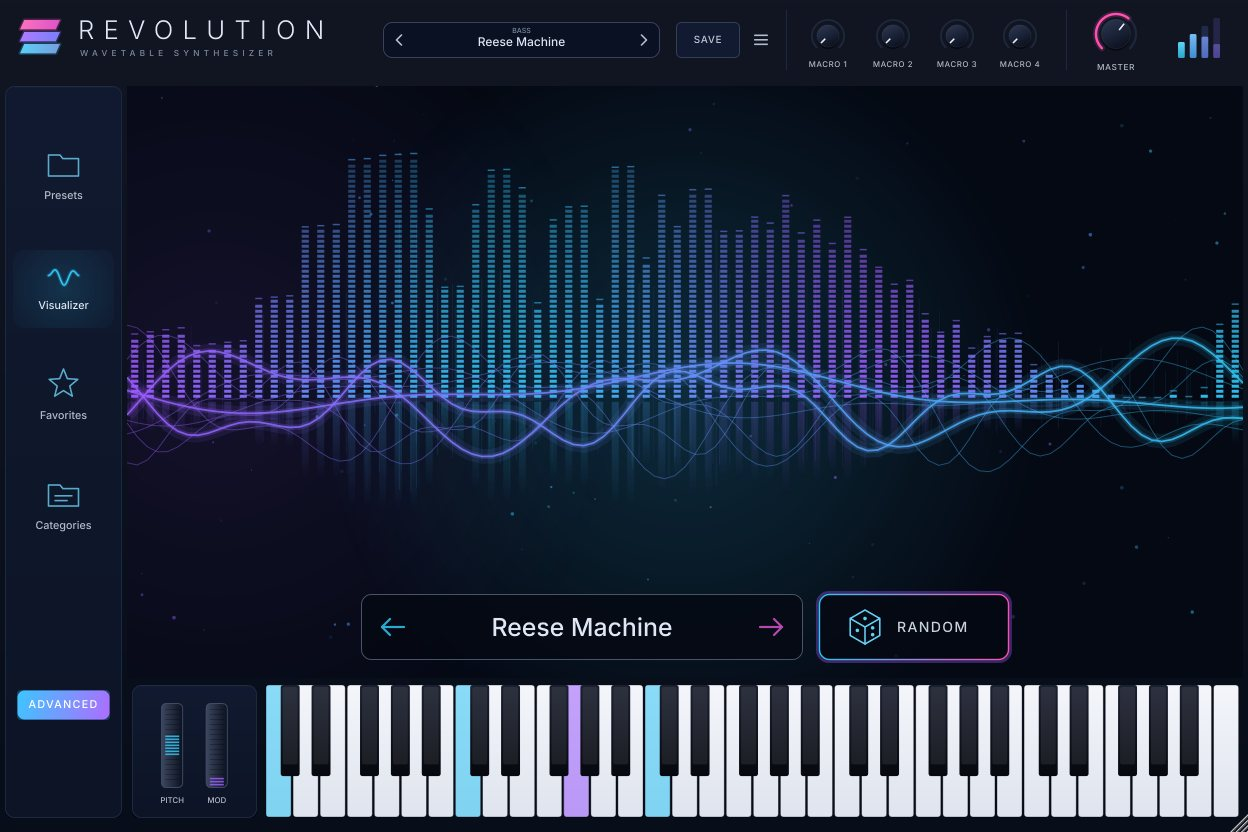
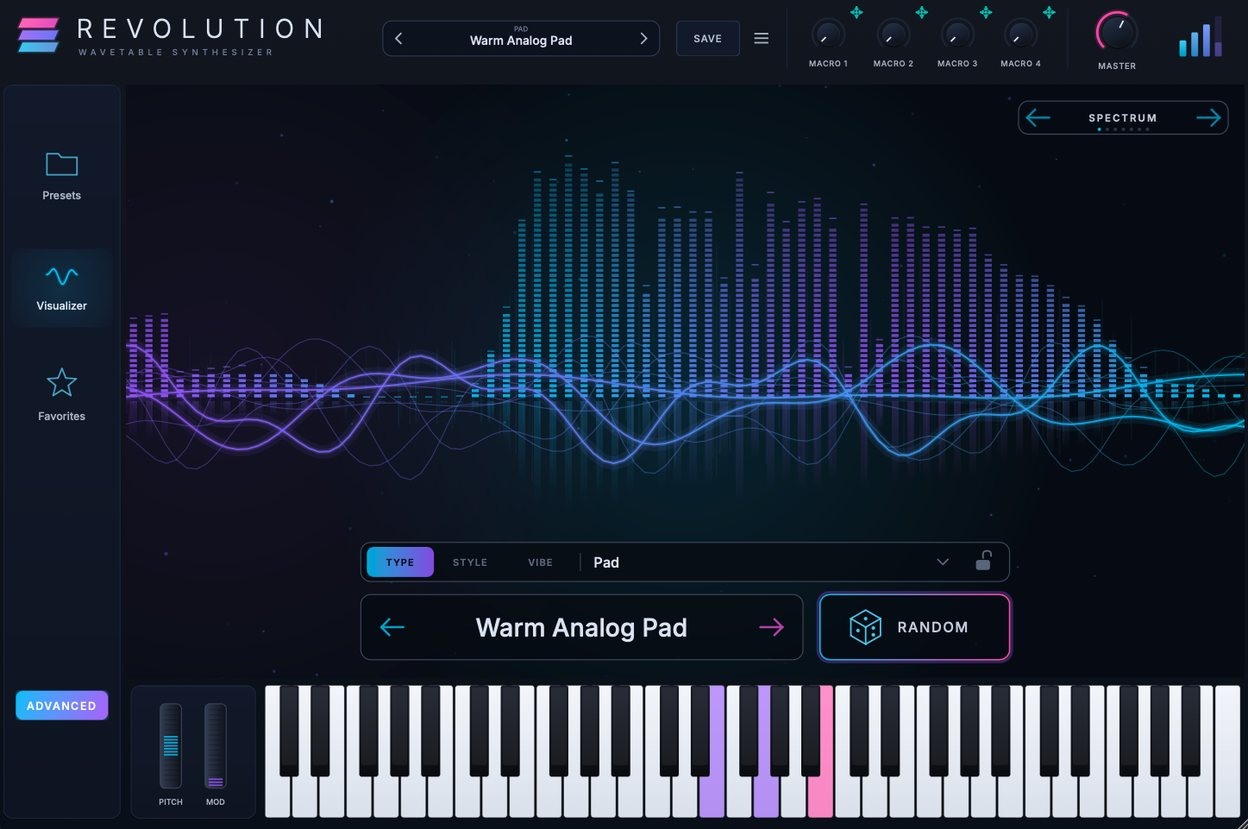
Revolution page: SHATTER, Breed, Pump, Time Machine, presets and The Touch scenes
New 1.4 screenshots. Sections for Normal/Advanced, preset RANDOM with the
category lock and Type / Style / Vibe browsing, the seven visualizers, a
The Touch special with Legendary, Duo, City Lights and Awakening, SHATTER,
Breed, Pump and the Time Machine. Home hero uses the new Duo and City Lights.

Claude-Session: https://claude.ai/code/session_01WwjQvk822aiDCxj48dmMkg

diff --git a/revolution.html b/revolution.html
@@ -12,9 +12,9 @@
 <link rel="stylesheet" href="https://fonts.googleapis.com/css2?family=Unbounded:wght@500;600;700&family=Inter:wght@400;500;600;700&family=JetBrains+Mono:wght@500;600&display=swap">
 <link rel="stylesheet" href="css/site.css?v=1">
 <title>Revolution · Coming soon · Rems Plugins</title>
-<meta name="description" content="Revolution, a new wavetable synth with 3,000 presets, eight skins, animated scenes, a custom LFO editor and Vital / Serum 2 import. Coming soon for Mac, Windows and Linux, with a 14-day free trial.">
+<meta name="description" content="Revolution, a new wavetable synth with 3,000 presets, eight skins, visualizers and The Touch scenes, SHATTER, Breed, Pump and the Time Machine. Coming soon for Mac, Windows and Linux, with a 14-day free trial.">
 <meta property="og:title" content="Revolution · coming soon">
-<meta property="og:description" content="A new wavetable synth with 3,000 presets, eight skins, animated scenes and a custom LFO editor. Try it free for 14 days.">
+<meta property="og:description" content="A new wavetable synth with 3,000 presets, eight skins, SHATTER, Breed and the Time Machine. Try it free for 14 days.">
 <meta property="og:image" content="https://remsplugins.github.io/img/revolution/revolution-og.jpg">
 <meta property="og:url" content="https://remsplugins.github.io/revolution.html">
 <meta name="twitter:card" content="summary_large_image">
@@ -43,6 +43,26 @@
 .chips span{font:500 12px var(--mono);padding:5px 9px;border-radius:6px;border:1px solid var(--line-2);color:var(--ink-2)}
 .filt{background:#e9eef4;border-radius:24px;padding:40px;display:grid;place-items:center}
 .filt img{width:100%;max-width:300px;height:auto;border-radius:12px;box-shadow:0 20px 40px rgba(21,23,28,.14)}
+.touch{background:#0b0b0d;color:#f3ead8;padding:96px 0;margin-top:96px}
+.touch .h2{color:#fff}
+.touch .lead{color:#c9bfae}
+.pill.gold{background:#e9b54a;color:#1a1306}
+.touch .scenes figure{background:#16161a;border-color:#2a2620}
+.touch .scenes figcaption b{color:#f1c76b}
+.touch .scenes figcaption span{color:#c9bfae}
+.touch-wide{margin:20px 0 0;border-radius:20px;overflow:hidden;border:1px solid #2a2620;background:#16161a}
+.touch-wide figcaption{padding:16px 22px;color:#c9bfae}
+.minis{display:grid;grid-template-columns:repeat(auto-fit,minmax(150px,1fr));gap:14px;margin-top:28px}
+.minis figure{margin:0}
+.minis img{border-radius:12px;box-shadow:0 0 0 1px rgba(21,23,28,.08)}
+.minis figcaption{font:500 12px var(--mono);color:var(--muted);margin-top:8px}
+.detail{background:#0b0b0d;border-radius:16px;padding:14px;display:grid;place-items:center}
+.detail img{border-radius:8px}
+.fx8{display:grid;grid-template-columns:repeat(auto-fit,minmax(min(250px,100%),1fr));gap:10px;margin-top:20px}
+.fx8 div{background:var(--bg);border:1px solid var(--line);border-radius:14px;padding:14px 16px;display:flex;flex-direction:column;gap:4px}
+.fx8 b{font:600 13px var(--mono);letter-spacing:.1em;text-transform:uppercase}
+.fx8 span{color:var(--text);font-size:14px}
+.tm{display:grid;grid-template-columns:repeat(auto-fit,minmax(min(380px,100%),1fr));gap:32px;align-items:center;background:#fff;border:1px solid var(--line);border-radius:24px;padding:clamp(24px,4vw,48px)}
 .notify{max-width:760px;margin:0 auto;text-align:center;align-items:center}
 .notify form{width:100%;text-align:left}
 .halcyon{max-width:760px;margin-left:auto;margin-right:auto;display:flex;gap:16px 24px;align-items:center;flex-wrap:wrap;justify-content:space-between;padding:22px 24px;border-radius:18px;border:1px dashed var(--line-3);background:#fff}
@@ -75,7 +95,7 @@
 
 <div class="subnav"><div class="wrap">
   <span class="name">REVOLUTION</span>
-  <a href="#watch">Teaser</a><a href="#scenes">Scenes</a><a href="#skins">Skins</a><a href="#modes">Normal &amp; Advanced</a><a href="#lfo">Custom LFO</a><a href="#filters">Filters</a><a href="#features">Features</a><a href="#listen">Listen</a>
+  <a href="#modes">Normal &amp; Advanced</a><a href="#presets">Presets</a><a href="#visualizers">Visualizers</a><a href="#the-touch">The Touch</a><a href="#skins">Skins</a><a href="#shatter">SHATTER</a><a href="#breed">Breed</a><a href="#pump">Pump</a><a href="#time-machine">Time Machine</a><a href="#listen">Listen</a>
   <a class="btn btn-ink btn-sm" href="#notify">Notify me</a>
 </div></div>
 
@@ -83,9 +103,9 @@
 <section class="wrap" style="padding-top:72px">
   <div class="stats">
     <div><b>3,000</b><span>factory presets</span></div>
-    <div><b>31</b><span>categories</span></div>
     <div><b>8</b><span>skins</span></div>
-    <div><b>16</b><span>unison voices per oscillator</span></div>
+    <div><b>11</b><span>visualizers and scenes</span></div>
+    <div><b>8</b><span>SHATTER effects</span></div>
   </div>
 </section>
 
@@ -95,15 +115,103 @@
   <div class="video"><video controls playsinline preload="none" poster="video/revolution-teaser.jpg" width="1280" height="720"><source src="video/revolution-teaser.mp4" type="video/mp4">Your browser can't play this video. <a href="video/revolution-teaser.mp4">Download it</a>.</video></div>
 </section>
 
-<!-- scenes -->
-<section class="wrap sec" id="scenes">
-  <div class="sec-head"><div><p class="kicker">New · Normal mode scenes</p><h2>A show that plays along</h2></div></div>
-  <p class="lead" style="margin:-12px 0 32px;max-width:48em">In Normal mode the panels step aside and a scene reacts to every note you play. The Touch skin brings three hand-made stages, and every other skin gets seven visualizers, from Spectrum to Aurora.</p>
-  <div class="scenes">
-    <figure><img src="img/revolution/scene-legendary.jpg" alt="Legendary scene: LED tubes and triangle walls around a pyramid" width="1248" height="832" loading="lazy"><figcaption><b>Legendary</b><span>A stage of LED tubes around a pyramid. New colours light up on every fifth note and on each new chord.</span></figcaption></figure>
-    <figure><img src="img/revolution/scene-duo.jpg" alt="Duo scene: a white T-shirt shows the chord being played, Cmaj7#11" width="1248" height="832" loading="lazy"><figcaption><b>Duo</b><span>A white T-shirt in the dark. Cartoon figures play on it at rest, and what you hold is printed on the shirt.</span></figcaption></figure>
-    <figure><img src="img/revolution/scene-city-lights.jpg" alt="City Lights scene: a figure in a red jacket facing a synthwave sunset" width="1248" height="832" loading="lazy"><figcaption><b>City Lights</b><span>A synthwave sunset over the grid, pulsing with your track.</span></figcaption></figure>
-    <figure><img src="img/revolution/scene-aurora.jpg" alt="Aurora visualizer: northern lights over hills" width="1248" height="832" loading="lazy"><figcaption><b>Aurora</b><span>Northern lights that ripple with the sound. Also Spectrum, Waves, Halo, Terrain, Pulse and Space Tour.</span></figcaption></figure>
+<!-- normal & advanced -->
+<section class="wrap sec" id="modes">
+  <div class="sec-head">
+    <div><p class="kicker">Normal &amp; Advanced</p><h2>Two ways to play, one click apart</h2></div>
+    <div class="seg" role="tablist" aria-label="Interface mode" data-switch="mode-shot">
+      <button class="choice" type="button" role="tab" aria-selected="true" aria-controls="mode-normal" data-show="mode-normal" data-src="img/revolution/normal-neon-blue.jpg" data-alt="Revolution in Normal mode, Spectrum visualizer">Normal</button>
+      <button class="choice" type="button" role="tab" aria-selected="false" aria-controls="mode-adv" data-show="mode-adv" data-src="img/revolution/page-synth.jpg" data-alt="Revolution in Advanced mode, Synth page">Advanced</button>
+    </div>
+  </div>
+  <div class="split r">
+    <img class="ui" id="mode-shot" src="img/revolution/normal-neon-blue.jpg" alt="Revolution in Normal mode, Spectrum visualizer" width="1248" height="829" loading="lazy">
+    <div>
+      <div id="mode-normal" role="tabpanel" style="display:flex;flex-direction:column;gap:18px">
+        <h3 style="font-size:26px">Normal: pick a sound and play</h3>
+        <p style="color:var(--text);font-size:17px;line-height:1.65">The panels step aside. A visualizer moves with your track, a big preset selector sits under your hands, and RANDOM deals a new sound in one click. Perfect when you want to write, not program.</p>
+        <ul class="checks">
+          <li>Browse by Type, Style or Vibe without opening a menu</li>
+          <li>Lock a category and the arrows and RANDOM stay in it</li>
+          <li>Seven visualizers, plus four scenes with The Touch skin</li>
+          <li>Favorites, the 4 macros and the master always within reach</li>
+        </ul>
+      </div>
+      <div id="mode-adv" role="tabpanel" hidden style="flex-direction:column;gap:18px">
+        <h3 style="font-size:26px;margin-bottom:18px">Advanced: the whole synth, page by page</h3>
+        <p style="color:var(--text);font-size:17px;line-height:1.65;margin-bottom:18px">Click ADVANCED and the full engine slides open. Six pages sit along the top: Synth, Mod Matrix, Effects, Arp, SHATTER and Breed. The Time Machine stays in view on every one of them.</p>
+        <ul class="checks">
+          <li>3 oscillators, sub and noise, 2 filters</li>
+          <li>4 envelopes and 4 LFOs, with live modulation shown on every knob</li>
+          <li>Drag a macro, envelope or LFO onto any knob to modulate it</li>
+          <li>Click NORMAL to fold it all away again</li>
+        </ul>
+      </div>
+    </div>
+  </div>
+</section>
+
+<!-- presets: random, lock, type / style / vibe -->
+<section class="white sec" id="presets" style="margin-top:96px;padding-bottom:96px">
+  <div class="wrap">
+    <p class="kicker">3,000 presets</p>
+    <h2 class="h2" style="margin-bottom:12px">Find the sound by what it is, where it goes, or how it feels</h2>
+    <p class="lead" style="margin-bottom:36px;max-width:48em">Every preset is filed three ways. Pick a tab, pick a category, then flip through with the arrows or let RANDOM choose for you.</p>
+    <div class="grid g3" style="margin-bottom:28px">
+      <div class="box"><b>Type</b><p>What the sound is: Bass, Lead, Pad, Pluck, Keys, Acoustic, Chord, Arp, Seq, Bell, Brass, Strings, Vox, Atmosphere, FX, Drums, Granular, Spectral…</p></div>
+      <div class="box"><b>Style</b><p>The music it was made for: House, Techno, Trance, EDM, Synthwave, Disco &amp; Funk, Hip-Hop &amp; Trap, Drum &amp; Bass, Dubstep, Ambient, Cinematic, Pop, Lo-Fi, Acid, Electro.</p></div>
+      <div class="box"><b>Vibe</b><p>The mood or the record it recalls: Acid Squelch, Big Room Drop, Cold Wave, Cosmic Laser, Detroit Machine, Disco Strut, Future Noir, Night Drive and many more.</p></div>
+    </div>
+    <div class="split r" style="align-items:start">
+      <div style="display:flex;flex-direction:column;gap:14px">
+        <img class="ui" id="browse-shot" src="img/revolution/browser-type.jpg" alt="Preset browser sorted by Type, Pad selected" width="1248" height="658" loading="lazy">
+        <div class="choices" role="tablist" aria-label="Preset browser tabs" data-switch="browse-shot" data-caption="browse-cap">
+          <button class="choice" type="button" role="tab" aria-selected="true" data-src="img/revolution/browser-type.jpg" data-alt="Preset browser sorted by Type, Pad selected" data-cap="Type › Pad: every pad in the library, with its tags.">Type</button>
+          <button class="choice" type="button" role="tab" aria-selected="false" data-src="img/revolution/browser-style.jpg" data-alt="Preset browser sorted by Style, Ambient selected" data-cap="Style › Ambient: pads, bells, textures and keys made for ambient tracks.">Style</button>
+          <button class="choice" type="button" role="tab" aria-selected="false" data-src="img/revolution/browser-vibe.jpg" data-alt="Preset browser sorted by Vibe, Cosmic Laser selected" data-cap="Vibe › Cosmic Laser: the sounds that share that feeling, whatever their type.">Vibe</button>
+        </div>
+        <p class="meta" id="browse-cap" style="font-family:var(--body);font-size:14px">Type › Pad: every pad in the library, with its tags.</p>
+      </div>
+      <div style="display:flex;flex-direction:column;gap:22px">
+        <div class="detail"><img src="img/revolution/detail-browse.jpg" alt="Normal mode preset bar: Type, Style and Vibe tabs, the lock, the preset arrows and the RANDOM button" width="780" height="155" loading="lazy"></div>
+        <div><h3 style="font-size:22px;margin-bottom:8px">RANDOM, one click, a new sound</h3><p style="color:var(--text);line-height:1.65">Stuck? Press RANDOM and Revolution deals a preset. Don't like it, press again. It's the fastest way to stumble on the sound your track was missing.</p></div>
+        <div><h3 style="font-size:22px;margin-bottom:8px">Lock it to a category</h3><p style="color:var(--text);line-height:1.65">Click the padlock and RANDOM and the arrows stay inside the category you chose. Lock Pad and you only get pads, lock Synthwave and every throw of the dice stays in the 80s.</p></div>
+        <div><h3 style="font-size:22px;margin-bottom:8px">A browser built for speed</h3><p style="color:var(--text);line-height:1.65">Search by name or tag, filter with tags like Mono, Unison, Slow Attack or Wide, star your favorites, and audition with the arrow keys while you scroll.</p></div>
+      </div>
+    </div>
+  </div>
+</section>
+
+<!-- visualizers -->
+<section class="wrap sec" id="visualizers">
+  <div class="sec-head"><div><p class="kicker">Visualizers</p><h2>Seven ways to watch your sound</h2></div></div>
+  <p class="lead" style="margin:-12px 0 32px;max-width:48em">In Normal mode the screen is a visualizer that listens to what you play. Step through them with the arrows in the top corner. Each one takes the colours of your skin.</p>
+  <img class="ui" id="viz-shot" src="img/revolution/viz-spectrum.jpg" alt="Spectrum visualizer" width="1248" height="829" loading="lazy">
+  <div class="choices" role="tablist" aria-label="Visualizers" data-switch="viz-shot" data-caption="viz-cap" style="margin-top:16px">
+    <button class="choice" type="button" role="tab" aria-selected="true" data-src="img/revolution/viz-spectrum.jpg" data-alt="Spectrum visualizer" data-cap="Spectrum: the frequency bars of your sound, with the waveform running through them.">Spectrum</button>
+    <button class="choice" type="button" role="tab" aria-selected="false" data-src="img/revolution/viz-waves.jpg" data-alt="Waves visualizer" data-cap="Waves: layers of waveforms that swell and shimmer with each note.">Waves</button>
+    <button class="choice" type="button" role="tab" aria-selected="false" data-src="img/revolution/viz-halo.jpg" data-alt="Halo visualizer" data-cap="Halo: a ring of light that bursts outwards with the spectrum.">Halo</button>
+    <button class="choice" type="button" role="tab" aria-selected="false" data-src="img/revolution/viz-terrain.jpg" data-alt="Terrain visualizer" data-cap="Terrain: your sound drawn as a landscape of light.">Terrain</button>
+    <button class="choice" type="button" role="tab" aria-selected="false" data-src="img/revolution/viz-pulse.jpg" data-alt="Pulse visualizer" data-cap="Pulse: a beating core in an orbit that breathes with the level.">Pulse</button>
+    <button class="choice" type="button" role="tab" aria-selected="false" data-src="img/revolution/viz-space-tour.jpg" data-alt="Space Tour visualizer" data-cap="Space Tour: a flight through the stars, in time with your music.">Space Tour</button>
+    <button class="choice" type="button" role="tab" aria-selected="false" data-src="img/revolution/viz-aurora.jpg" data-alt="Aurora visualizer" data-cap="Aurora: northern lights that ripple with the sound.">Aurora</button>
+  </div>
+  <p class="meta" id="viz-cap" style="font-family:var(--body);font-size:14px;margin-top:12px">Spectrum: the frequency bars of your sound, with the waveform running through them.</p>
+</section>
+
+<!-- The Touch -->
+<section class="touch" id="the-touch">
+  <div class="wrap">
+    <div class="choices"><span class="pill gold">The Touch special</span><span class="meta" style="color:#b8a27a;letter-spacing:.12em">SKIN + SCENES</span></div>
+    <h2 class="h2" style="margin:16px 0 12px">The Touch: four stages instead of a visualizer</h2>
+    <p class="lead" style="margin-bottom:40px;max-width:48em">Choose The Touch skin and Revolution turns black and gold. In Normal mode the visualizers make way for four hand-made scenes that play along with you.</p>
+    <div class="scenes">
+      <figure><img src="img/revolution/scene-legendary.jpg" alt="Legendary scene: LED tubes and triangle walls around a pyramid" width="1248" height="832" loading="lazy"><figcaption><b>Legendary</b><span>A stage of LED tubes around a pyramid. New colours light up on every fifth note and on each new chord.</span></figcaption></figure>
+      <figure><img src="img/revolution/touch-duo.jpg" alt="Duo scene: a white T-shirt with a skull, light rays behind it" width="1248" height="829" loading="lazy"><figcaption><b>Duo</b><span>A white T-shirt in the dark. Figures play on it at rest, and what you hold is printed on the shirt.</span></figcaption></figure>
+      <figure><img src="img/revolution/touch-city-lights.jpg" alt="City Lights scene: a red convertible drives towards a synthwave sunset" width="1248" height="829" loading="lazy"><figcaption><b>City Lights</b><span>A red convertible heads into a synthwave sunset over the grid, and speeds up as your music gets louder.</span></figcaption></figure>
+      <figure><img src="img/revolution/touch-awakening.jpg" alt="Awakening scene: a glowing glass figure waving" width="1248" height="829" loading="lazy"><figcaption><b>Awakening</b><span>A figure of glass and light that comes to life as you play.</span></figcaption></figure>
+    </div>
+    <figure class="touch-wide"><img src="img/revolution/touch-synth.jpg" alt="Revolution in Advanced mode with The Touch skin, Synth page" width="1248" height="829" loading="lazy"><figcaption>And in Advanced mode, every page gets the same black and gold finish.</figcaption></figure>
   </div>
 </section>
 
@@ -127,41 +235,84 @@
     </div>
     <img class="ui" id="skin-shot" src="img/revolution/skin-the-touch.jpg" alt="Revolution in Advanced mode, The Touch skin" width="1248" height="832" loading="lazy">
   </div>
+  <div class="minis">
+    <figure><img src="img/revolution/normal-organic.jpg" alt="Normal mode, Organic skin" width="1248" height="829" loading="lazy"><figcaption>Organic</figcaption></figure>
+    <figure><img src="img/revolution/normal-light.jpg" alt="Normal mode, Light skin" width="1248" height="829" loading="lazy"><figcaption>Light</figcaption></figure>
+    <figure><img src="img/revolution/normal-wood-alu.jpg" alt="Normal mode, Wood &amp; Alu skin" width="1248" height="829" loading="lazy"><figcaption>Wood &amp; Alu</figcaption></figure>
+    <figure><img src="img/revolution/normal-amber.jpg" alt="Normal mode, Amber skin" width="1248" height="829" loading="lazy"><figcaption>Amber</figcaption></figure>
+  </div>
 </section>
 
-<!-- normal & advanced -->
-<section class="wrap sec" id="modes">
-  <div class="sec-head">
-    <div><p class="kicker">Normal &amp; Advanced</p><h2>Two ways to play, one click apart</h2></div>
-    <div class="seg" role="tablist" aria-label="Interface mode" data-switch="mode-shot">
-      <button class="choice" type="button" role="tab" aria-selected="true" aria-controls="mode-normal" data-show="mode-normal" data-src="img/revolution/normal-light.jpg" data-alt="Revolution in Normal mode">Normal</button>
-      <button class="choice" type="button" role="tab" aria-selected="false" aria-controls="mode-adv" data-show="mode-adv" data-src="img/revolution/skin-light.jpg" data-alt="Revolution in Advanced mode">Advanced</button>
+<!-- shatter -->
+<section class="white sec" id="shatter" style="padding-bottom:96px">
+  <div class="wrap">
+    <div class="choices"><span class="pill">New</span><p class="kicker" style="margin:0">SHATTER</p></div>
+    <h2 class="h2" style="margin:12px 0 12px">Break your sound into rhythm</h2>
+    <p class="lead" style="margin-bottom:36px;max-width:48em">SHATTER slices what you play in time with the track and throws glitch effects at it, step by step. Draw on the rings, hit DICE, and a held pad turns into a beat.</p>
+    <img class="ui" src="img/revolution/page-shatter.jpg" alt="SHATTER page: a circular step sequencer with eight coloured rings and the eight effects on the right" width="1248" height="850" loading="lazy">
+    <div class="fx8">
+      <div><b style="color:#1aa5d6">Stutter</b><span>Repeats a slice, faster and faster</span></div>
+      <div><b style="color:#e0457b">Rewind</b><span>Plays the sound backwards</span></div>
+      <div><b style="color:#8f5be8">Scramble</b><span>Swaps slices around, some reversed</span></div>
+      <div><b style="color:#e8822a">Brake</b><span>Slows down to a stop, like a tape</span></div>
+      <div><b style="color:#16a587">Smear</b><span>Freezes and stretches the sound</span></div>
+      <div><b style="color:#c99a10">Chop</b><span>Rhythmic volume cuts</span></div>
+      <div><b style="color:#b8423a">Grit</b><span>Bit and sample-rate reduction</span></div>
+      <div><b style="color:#3f6fd8">Sweep</b><span>Resonant filter sweep</span></div>
+    </div>
+    <div class="grid g3" style="margin-top:20px">
+      <div class="box"><b>One ring per effect</b><p>Draw on a ring to light steps, right-click to clear it. Up to 16 steps on a 1/16 grid, or any other division. The centre pad switches SHATTER on.</p></div>
+      <div class="box"><b>Dice, Evolve, Wipe, Hold</b><p>DICE writes a new pattern, EVOLVE changes it a little at a time, WIPE clears it, HOLD freezes it while you play. Eight pattern slots to switch between.</p></div>
+      <div class="box"><b>Five knobs to tame it</b><p>Slice, Chaos, Backwards and Mix shape the effect, Shatter Mix blends it with the dry sound.</p></div>
     </div>
   </div>
+</section>
+
+<!-- breed -->
+<section class="wrap sec" id="breed">
   <div class="split r">
-    <img class="ui" id="mode-shot" src="img/revolution/normal-light.jpg" alt="Revolution in Normal mode" width="1248" height="832" loading="lazy">
-    <div>
-      <div id="mode-normal" role="tabpanel" style="display:flex;flex-direction:column;gap:18px">
-        <h3 style="font-size:26px">Normal: pick a sound and play</h3>
-        <p style="color:var(--text);font-size:17px;line-height:1.65">The panels step aside. A scene moves with your track, a big preset selector sits under your hands, and RANDOM deals a new sound in one click. Perfect when you want to write, not program.</p>
-        <ul class="checks">
-          <li>Seven visualizers, plus three stages with The Touch skin</li>
-          <li>Browse by type, by music style or by the artist a sound recalls</li>
-          <li>Lock a category and the arrows and RANDOM stay in it</li>
-          <li>Favorites and the 4 macros always within reach</li>
-        </ul>
-      </div>
-      <div id="mode-adv" role="tabpanel" hidden style="flex-direction:column;gap:18px">
-        <h3 style="font-size:26px;margin-bottom:18px">Advanced: the whole synth on one page</h3>
-        <p style="color:var(--text);font-size:17px;line-height:1.65;margin-bottom:18px">Click ADVANCED and the full engine slides open with an animated switch. Everything is on the Synth page, nothing hides in sub-menus.</p>
-        <ul class="checks">
-          <li>3 oscillators, sub and noise, 2 filters</li>
-          <li>4 envelopes and 4 LFOs, with live modulation shown on every knob</li>
-          <li>Mod matrix, effects and arpeggiator on the main page</li>
-          <li>Drag a macro, envelope or LFO onto any knob to modulate it</li>
-        </ul>
-      </div>
+    <img class="ui" src="img/revolution/page-breed.jpg" alt="Breed page: parents A and B on the left, eight offspring on the right" width="1248" height="850" loading="lazy">
+    <div style="display:flex;flex-direction:column;gap:18px">
+      <p class="kicker">Breed</p>
+      <h2 class="h2">Two presets in, eight new sounds out</h2>
+      <p style="color:var(--text);font-size:17px;line-height:1.65">Pick two parents, set the mutation and press BREED. Eight children are born, each one test-played and level-matched, with a DNA bar that shows which genes came from A, which from B, and which mutated.</p>
+      <ul class="checks">
+        <li>Choose parents from the current sound, the browser, or at random</li>
+        <li>Lock oscillators, envelopes, effects, filters, modulation or arp so they always come from A</li>
+        <li>Auto preview plays each child as you click it</li>
+        <li>Save a child, or send it back as a new parent for the next generation</li>
+      </ul>
     </div>
+  </div>
+</section>
+
+<!-- pump -->
+<section class="wrap sec" id="pump">
+  <div class="split n">
+    <div style="display:flex;flex-direction:column;gap:18px">
+      <p class="kicker">Pump</p>
+      <h2 class="h2">The sidechain pump, built in</h2>
+      <p style="color:var(--text);font-size:17px;line-height:1.65">That breathing, ducking movement of dance music, without routing a kick to a compressor. Pump sits with the effects and moves your sound in time with the host.</p>
+      <div class="detail" style="max-width:420px"><img src="img/revolution/detail-pump.jpg" alt="Pump module: Pump, Soft, Tri, Saw and Gate shapes, Flip, Sync at 1/4, and Depth, Curve, Smooth, Sens, Mix and Out knobs" width="517" height="315" loading="lazy"></div>
+      <ul class="checks">
+        <li>Five shapes: Pump, Soft, Tri, Saw, Gate, plus Flip to turn them over</li>
+        <li>Synced to the host tempo, from long swells to fast 1/16 chops</li>
+        <li>Depth, Curve, Smooth, Sens, Mix and Out to dial it in</li>
+      </ul>
+    </div>
+    <img class="ui" src="img/revolution/page-effects.jpg" alt="Effects page with distortion, compressor, chorus, phaser, delay, reverb, tape, EQ and Pump" width="1248" height="850" loading="lazy">
+  </div>
+</section>
+
+<!-- time machine -->
+<section class="wrap sec" id="time-machine">
+  <div class="tm">
+    <div style="display:flex;flex-direction:column;gap:16px">
+      <p class="kicker">Time Machine</p>
+      <h2 class="h2">One slider, fifty years of sound</h2>
+      <p style="color:var(--text);font-size:17px;line-height:1.65">Slide it back and the whole synth ages with it: tape, 12-bit converters, rave samplers, the colour of the gear of each era. Press NOW to come straight back to today. It sits at the top of every page, so you can try it on any sound.</p>
+    </div>
+    <div class="detail"><img src="img/revolution/detail-time-machine.jpg" alt="Time Machine slider with the NOW button" width="460" height="62" loading="lazy"></div>
   </div>
 </section>
 
@@ -210,18 +361,19 @@
 
 <!-- features -->
 <section class="wrap sec" id="features">
-  <p class="kicker">Features</p>
-  <h2 class="h2" style="margin-bottom:36px">Built to be different</h2>
-  <div class="grid g3" style="margin-bottom:20px">
-    <article class="card"><img class="shot" src="img/revolution/page-breed.jpg" alt="Breed page" width="1248" height="832" loading="lazy"><div class="body"><h3>Breed</h3><p>Cross two presets, set the mutation, and 8 new sounds are born, test-played and level-matched.</p></div></article>
-    <article class="card"><img class="shot" src="img/revolution/page-effects.jpg" alt="Effects page with the Pump module" width="1248" height="832" loading="lazy"><div class="body"><h3>10 effects and Pump</h3><p>Juno-style chorus, tape, and sidechain-style ducking synced to the tempo, your notes or the sidechain input.</p></div></article>
-    <article class="card"><img class="shot" src="img/revolution/page-browser.jpg" alt="Preset browser" width="1248" height="832" loading="lazy"><div class="body"><h3>3,000 presets</h3><p>Favourites, tags and a browser by type, style or the artist a sound recalls.</p></div></article>
+  <p class="kicker">And more</p>
+  <h2 class="h2" style="margin-bottom:36px">Everything else inside</h2>
+  <div class="grid" style="grid-template-columns:repeat(auto-fit,minmax(min(380px,100%),1fr));gap:24px;margin-bottom:20px">
+    <article class="card"><img class="shot" src="img/revolution/page-modmatrix.jpg" alt="Mod Matrix page with LFO routings and four macros" width="1248" height="850" loading="lazy"><div class="body"><h3>Mod Matrix</h3><p>16 slots, each with source, amount and destination, next to the four macros.</p></div></article>
+    <article class="card"><img class="shot" src="img/revolution/page-arp.jpg" alt="Arp page with a 16-step coloured pattern" width="1248" height="850" loading="lazy"><div class="body"><h3>Arpeggiator</h3><p>A 16-step pattern with gate and accent per step, swing, octaves and latch.</p></div></article>
   </div>
-  <div class="grid g4">
+  <div class="grid g3">
+    <div class="box"><b>Effects</b><p>Distortion, compressor, Juno-style chorus, phaser, delay, reverb, tape, EQ and Pump, all on one page.</p></div>
     <div class="box"><b>Vital &amp; Serum 2 import</b><p>Drop a .vital or .SerumPreset file and play it, wavetables and macros included.</p></div>
     <div class="box"><b>4 engines</b><p>Wavetable, granular with your own samples, spectral with up to 96 partials, sampler.</p></div>
-    <div class="box"><b>Time Machine</b><p>One slider sends the whole sound from the 70s to today.</p></div>
-    <div class="box"><b>MPE, arp, mod matrix</b><p>16-step arpeggiator, 16-slot mod matrix, per-note bend, pressure and slide.</p></div>
+    <div class="box"><b>16 unison voices</b><p>Per oscillator, with detune and spread for huge supersaws.</p></div>
+    <div class="box"><b>MPE</b><p>Per-note bend, pressure and slide from an MPE controller.</p></div>
+    <div class="box"><b>Everywhere</b><p>VST3, AU, LV2 and Standalone on Mac (Apple Silicon and Intel), Windows and Linux.</p></div>
   </div>
   <p class="legal" style="margin-top:20px">Piano presets use the <a href="https://sfzinstruments.github.io/pianos/salamander/" target="_blank" rel="noopener">Salamander Grand Piano</a> by Alexander Holm, licensed under <a href="https://creativecommons.org/licenses/by/3.0/" target="_blank" rel="noopener">CC BY 3.0</a>.</p>
 </section>

diff --git a/index.html b/index.html
@@ -61,8 +61,8 @@
       <div class="choices" data-switch="hero-shot" aria-label="Revolution looks">
         <span class="meta" style="margin-right:4px">Look</span>
         <button class="choice" type="button" aria-pressed="true" data-src="img/revolution/scene-legendary.jpg" data-alt="Revolution in Normal mode, The Touch skin, Legendary scene"><span class="dot" style="background:#e9b54a"></span>Legendary</button>
-        <button class="choice" type="button" aria-pressed="false" data-src="img/revolution/scene-duo.jpg" data-alt="Revolution in Normal mode, Duo scene: a T-shirt shows the chord being played"><span class="dot" style="background:#fff"></span>Duo</button>
-        <button class="choice" type="button" aria-pressed="false" data-src="img/revolution/scene-city-lights.jpg" data-alt="Revolution in Normal mode, City Lights scene"><span class="dot" style="background:#e86fb0"></span>City Lights</button>
+        <button class="choice" type="button" aria-pressed="false" data-src="img/revolution/touch-duo.jpg" data-alt="Revolution in Normal mode, Duo scene: a white T-shirt in the dark"><span class="dot" style="background:#fff"></span>Duo</button>
+        <button class="choice" type="button" aria-pressed="false" data-src="img/revolution/touch-city-lights.jpg" data-alt="Revolution in Normal mode, City Lights scene: a red convertible heads into a synthwave sunset"><span class="dot" style="background:#e86fb0"></span>City Lights</button>
         <button class="choice" type="button" aria-pressed="false" data-src="img/revolution/scene-aurora.jpg" data-alt="Revolution in Normal mode, Aurora visualizer"><span class="dot" style="background:#4fc9d6"></span>Aurora</button>
         <button class="choice" type="button" aria-pressed="false" data-src="img/revolution/skin-light.jpg" data-alt="Revolution in Advanced mode, Light skin"><span class="dot" style="background:#f4f6fa"></span>Light</button>
         <button class="choice" type="button" aria-pressed="false" data-src="img/revolution/skin-wood-alu.jpg" data-alt="Revolution in Advanced mode, Wood &amp; Alu skin"><span class="dot" style="background:#7a4a2a"></span>Wood &amp; Alu</button>
